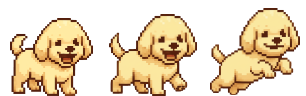
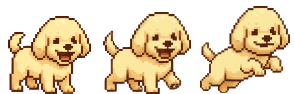
feat: use Kiwi's consistent pixel-art frames in the game
- build:sprites accepts true pixel-art sources ({ artPixel: 1 }): no
  grid measuring, and the 2x enlargement is exact pixel doubling, so
  Kiwi is perfectly crisp
- Kiwi: smiling idle; 4-frame trot (stride, raised pass, other stride,
  raised pass) that keeps the bouncy feel; tucked-leg jump lifted so
  the body stays at standing height
- Every Kiwi frame is now 82x78, the same as Sofi's standing pose
  (was 82x78 idle vs 93x91 move); hitbox unchanged (57x65)
- Test: only the idle pose must stand on the bottom edge (the tucked
  jump is lifted on purpose)

The old chill_move/chill_jump images stay in art/raw but are unused.

Changed region(s): [[0.0, 0.0638, 1.0, 1.0]]

diff --git a/tests/characters.test.ts b/tests/characters.test.ts
@@ -40,10 +40,8 @@ describe.each(CHARACTER_KEYS)('%s sprites', (key) => {
         });
     });
 
-    it('idle and jump frames stand on the bottom edge (only walk frames may be lifted)', () => {
-        for (const state of ['idle', 'jump'] as const) {
-            for (const index of animations[state]) expect(frames[index]?.lift, state).toBe(0);
-        }
+    it('the idle pose stands on the bottom edge (walk and jump frames may be lifted)', () => {
+        for (const index of animations.idle) expect(frames[index]?.lift).toBe(0);
     });
 
     it('hitbox sits inside the frame with its bottom on the feet', () => {
